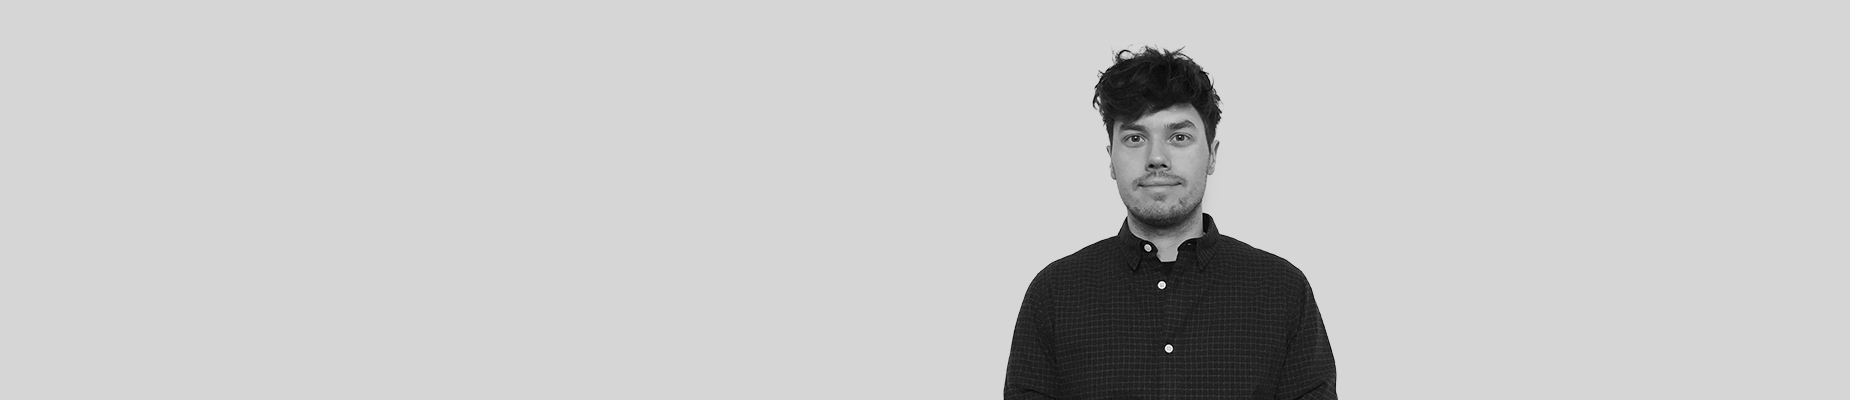
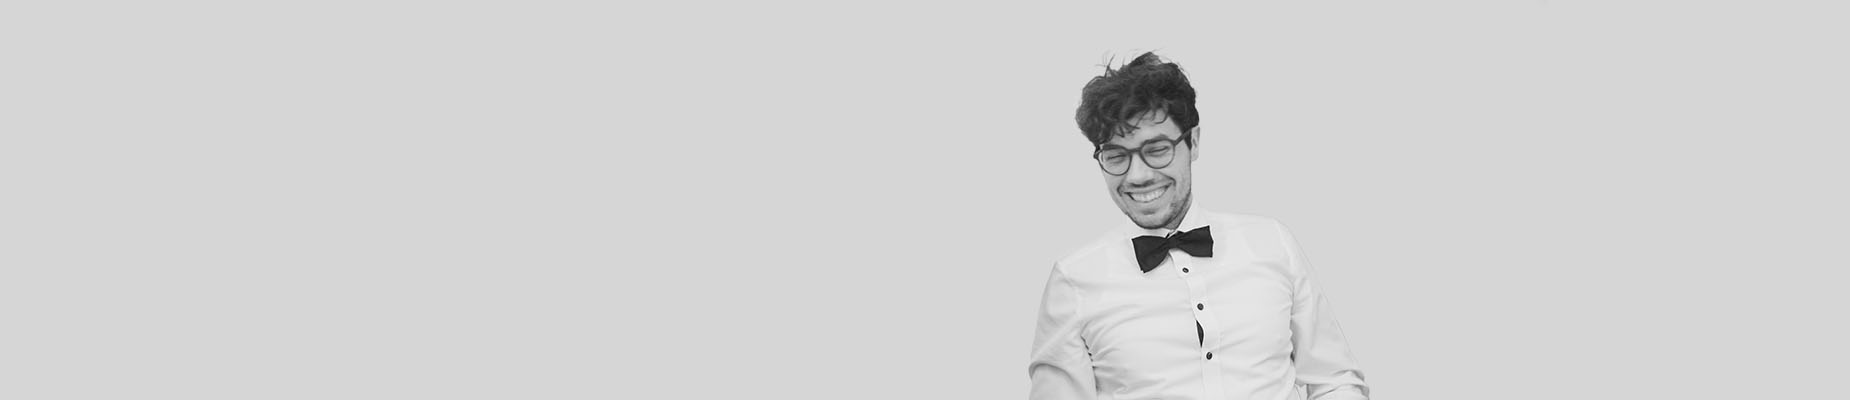
updated about background img, include new hero intro video, multiple css fixes

Changed region(s): [[0.5238, 0.12, 0.7395, 1.0]]

diff --git a/css/style.css b/css/style.css
@@ -607,7 +607,13 @@ a:focus {
 .intro-blog .intro-body .brand-heading {
   font-size: 40px;
 }
-.intro-blog .intro-body .intro-text {
+.intro-blog .intro-body {
+  font-size: 18px;
+  font-family: "Merriweather", "Helvetica Neue", Helvetica, Arial, sans-serif;
+  font-style: italic;
+  text-transform: none;
+}
+.intro-text {
   font-size: 18px;
   font-family: "Merriweather", "Helvetica Neue", Helvetica, Arial, sans-serif;
   font-style: italic;
@@ -622,22 +628,19 @@ a:focus {
   .intro-blog .intro-body .brand-heading {
     font-size: 58px;
   }
-  .intro-blog .intro-body .intro-text {
+  .intro-blog .intro-body {
+    font-size: 26px;
+  }
+  .intro-text {
     font-size: 26px;
   }
 }
 .intro {
-  display: table;
   width: 100%;
   height: 100%;
-  padding: 170px 0;
+  margin: 30vh 0;
   text-align: center;
   color: white;
-  background-color: #3399db;
-  -webkit-background-size: cover;
-  -moz-background-size: cover;
-  background-size: cover;
-  -o-background-size: cover;
 }
 .intro .intro-body {
   display: table-cell;
@@ -655,6 +658,7 @@ a:focus {
   .intro {
     height: 100%;
     padding: 0;
+    margin: 45vh 0;
   }
   .intro .intro-body .brand-heading {
     font-size: 58px;
@@ -665,17 +669,17 @@ a:focus {
 }
 .scroll_down {
   position: absolute;
-  bottom: 55px;
   left: 0;
+  top: 70vh;
   height: 75px;
   width: 100%;
   z-index: 100;
 }
-@media (min-width: 768px) {
+@media (min-height: 920px) {
   .scroll_down {
-    bottom: 155px;
-    position: absolute;
-  }
+    top: 85vh;
+   position: absolute;
+ }
 }
 .btn-circle {
   width: 70px;
@@ -741,6 +745,50 @@ a:focus {
     transform: scale(1);
   }
 }
+
+header {
+  position: relative;
+  background-color: #06121a;
+  height: 100vh;
+  min-height: 25rem;
+  width: 100%;
+  overflow: hidden;
+}
+
+header video {
+  position: absolute;
+  top: 50%;
+  left: 50%;
+  max-height: 100vh;
+  min-height: 100vh;
+  width: auto;
+  height: auto;
+  z-index: 0;
+  -ms-transform: translateX(-50%) translateY(-50%);
+  -moz-transform: translateX(-50%) translateY(-50%);
+  -webkit-transform: translateX(-50%) translateY(-50%);
+  transform: translateX(-50%) translateY(-50%);
+}
+
+header .container {
+  position: relative;
+  z-index: 2;
+}
+
+header .overlay {
+  position: absolute;
+  top: 0;
+  left: 0;
+  background: -moz-linear-gradient(left,  rgba(6,18,26,1) 0%, rgba(6,18,26,1) 6%, rgba(6,18,26,0) 50%, rgba(6,18,26,1) 94%, rgba(6,18,26,1) 100%);
+  background: -webkit-linear-gradient(left,  rgba(6,18,26,1) 0%,rgba(6,18,26,1) 6%,rgba(6,18,26,0) 50%,rgba(6,18,26,1) 94%,rgba(6,18,26,1) 100%);
+  background: linear-gradient(to right,  rgba(6,18,26,1) 0%,rgba(6,18,26,1) 6%,rgba(6,18,26,0) 50%,rgba(6,18,26,1) 94%,rgba(6,18,26,1) 100%);
+  filter: progid:DXImageTransform.Microsoft.gradient( startColorstr='#06121a', endColorstr='#06121a',GradientType=1 );
+  height: 100%;
+  width: 100%;
+  z-index: 1;
+
+}
+
 .content-section {
   padding-top: 0px;
 }

diff --git a/front-page.php b/front-page.php
@@ -6,11 +6,15 @@ $thumb = wp_get_attachment_image_src( get_post_thumbnail_id($post->ID), 'full' )
 $headerimg = $thumb['0'];
 ?>
     <!-- Intro Header -->
-    <header id="header" class="intro" style="background: #3399db url(<?=$headerimg?>) no-repeat bottom center scroll;   -webkit-background-size: cover;
-  -moz-background-size: cover;
-  background-size: cover;
-  -o-background-size: cover;">
-        <div class="intro-body">
+
+    <header id="header">
+  <div class="overlay"></div>
+  <video autoplay="autoplay" loop="loop" muted defaultMuted playsinline oncontextmenu="return false;" preload="auto">
+    <source src="<?php bloginfo('template_url');?>/img/video/scribble.mp4" type="video/mp4">
+      <source src="<?php bloginfo('template_url');?>/img/video/scribble.webm" type="video/webm"> 
+  </video>
+  <div class="container">
+   <div class="intro intro-body">
         <div class="scroll_down">
                         <a href="#about" class="btn btn-circle page-scroll">
                             <i class="fa fa-angle-double-down animated"></i>
@@ -55,7 +59,9 @@ $headerimg = $thumb['0'];
                     </div>
                 </div>
             </div>
-    </header>
+    </div>
+  </div>
+</header>
 
     <!-- About Section -->
     <section id="about" class="content-section">
